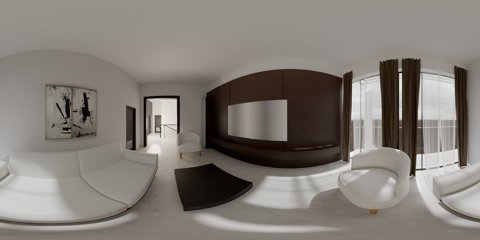
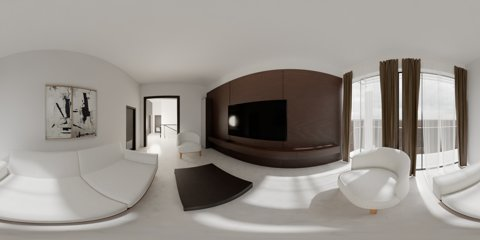
Family Lounge final: EV 2.4 (Philip option B) + black off-TV screen; overcast sky, original composition

diff --git a/living-room-premium/tour.html b/living-room-premium/tour.html
@@ -55,8 +55,8 @@ const cam = new THREE.PerspectiveCamera(75, innerWidth/innerHeight, 0.05, 50);
 // --- load RGB + RGBD depth
 const loader = new THREE.TextureLoader();
 const [panoTex, depthTex] = await Promise.all([
-  loader.loadAsync('panos/living_room.jpg?v=20260916k'),
-  loader.loadAsync('panos/depth_rgbd.png?v=20260916k')
+  loader.loadAsync('panos/living_room.jpg?v=20260916l'),
+  loader.loadAsync('panos/depth_rgbd.png?v=20260916l')
 ]);
 panoTex.colorSpace = THREE.SRGBColorSpace;
 depthTex.minFilter = depthTex.magFilter = THREE.LinearFilter;

diff --git a/living-room-premium/tour_v2.html b/living-room-premium/tour_v2.html
@@ -65,7 +65,7 @@ const cam = new THREE.PerspectiveCamera(FOV_DEFAULT, innerWidth/innerHeight, 0.0
 // --- load RGB + RGBD depth
 const loader = new THREE.TextureLoader();
 const [panoTex, depthTex] = await Promise.all([
-  loader.loadAsync('panos/living_room.jpg?v=20260916k'),
+  loader.loadAsync('panos/living_room.jpg?v=20260916l'),
   loader.loadAsync('panos/depth_rgbd.png?v=20260914t')
 ]);
 panoTex.colorSpace = THREE.SRGBColorSpace;
